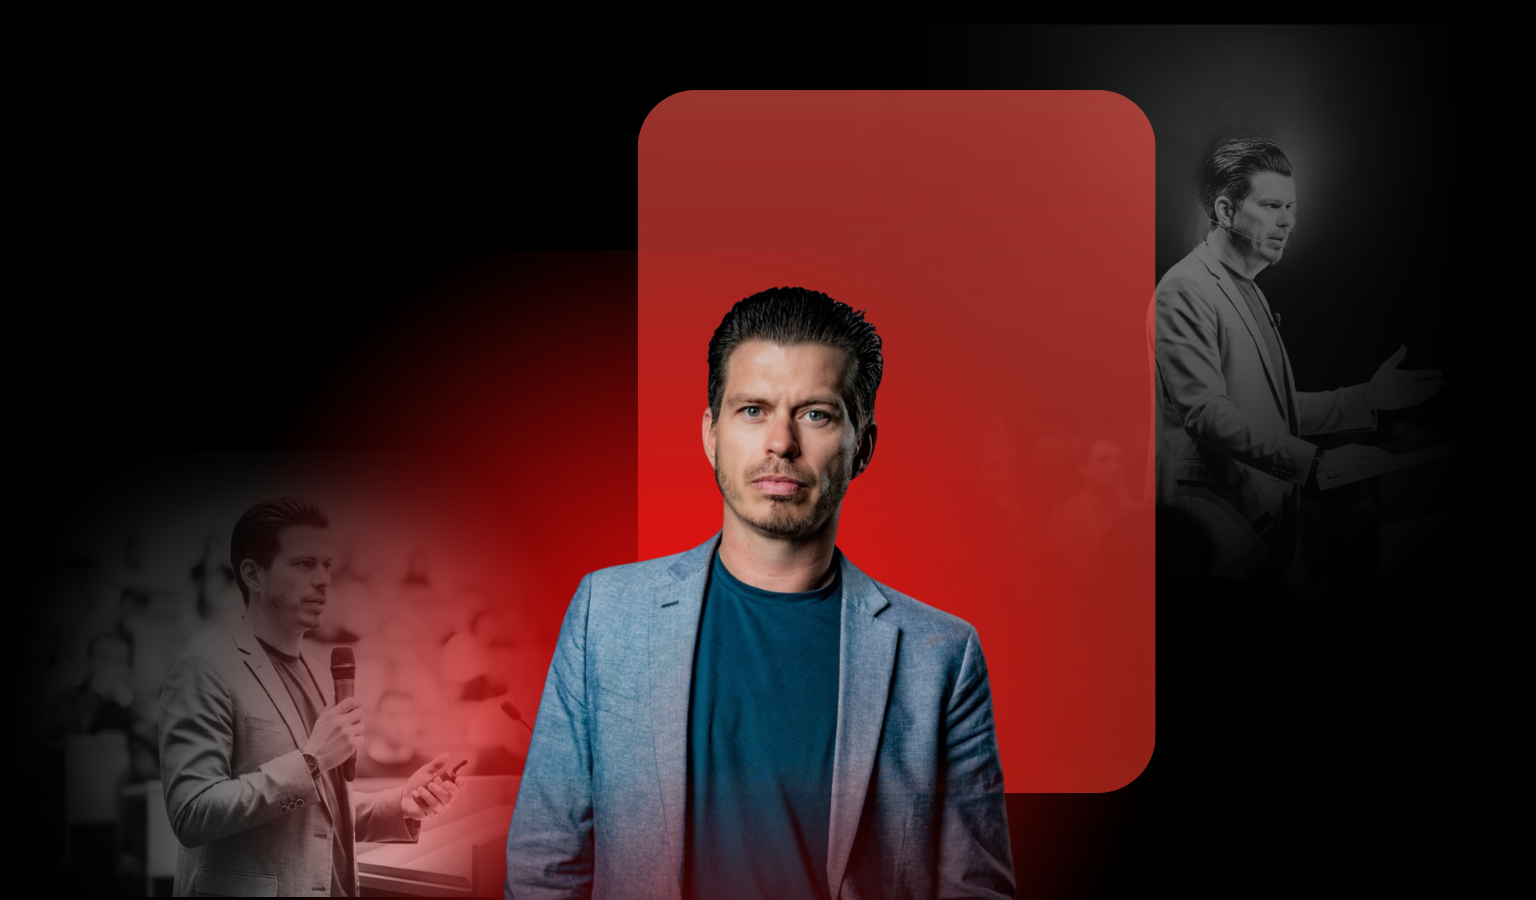
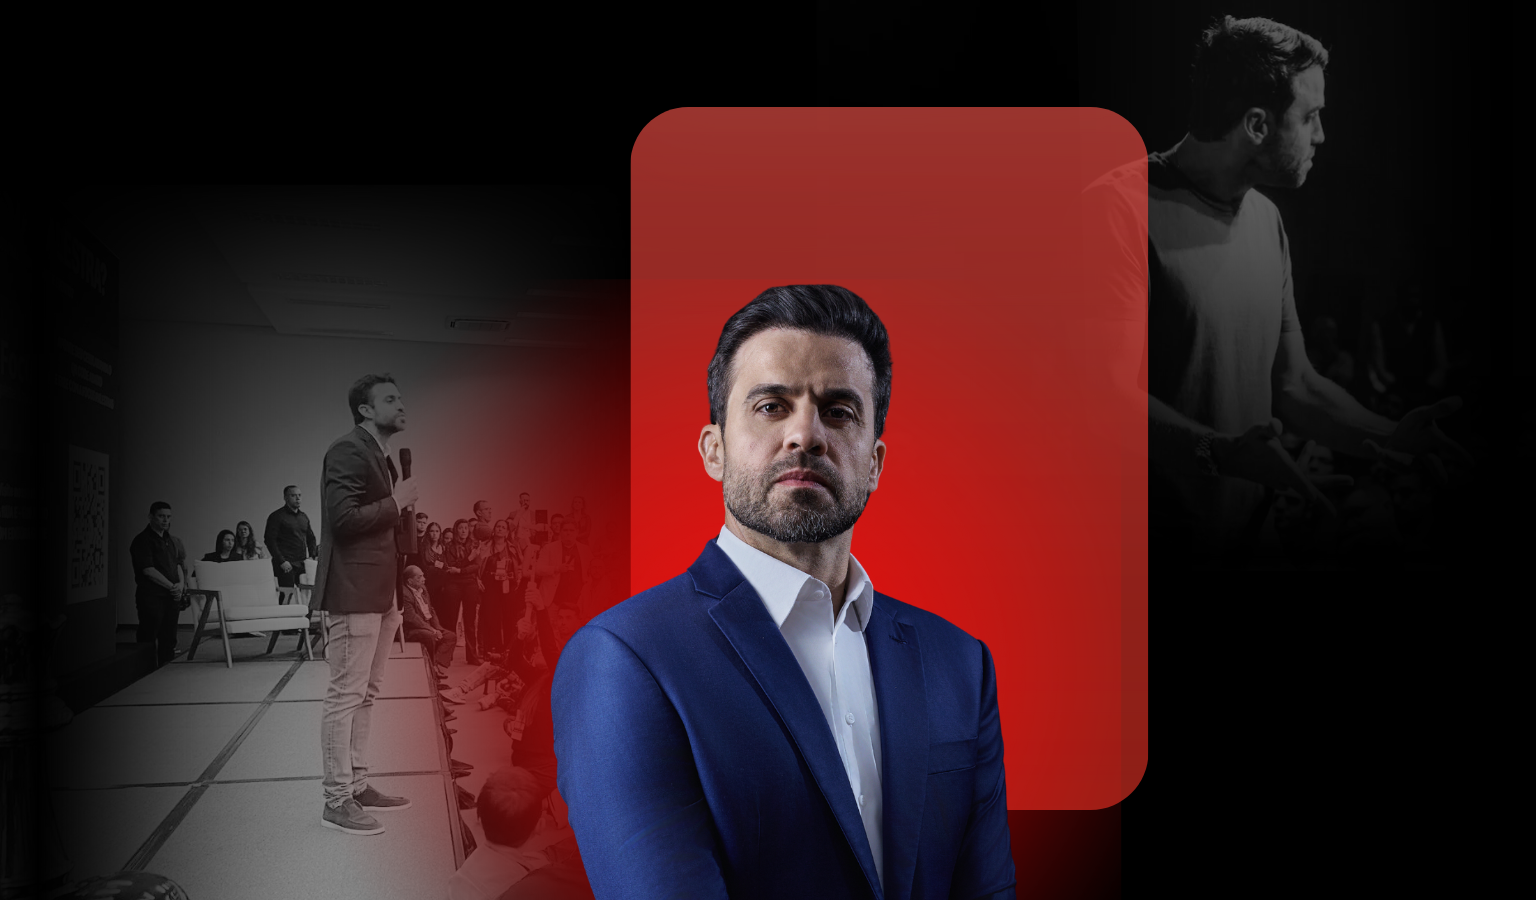
add nesio, delet tiago

diff --git a/src/components/MentorSection.tsx b/src/components/MentorSection.tsx
@@ -23,7 +23,7 @@ export const MentorSection = () => {
       img: santiago,
       bio: [
         "Médico, empresário e palestrante internacional, Santiago Vecina é especialista em nutrologia esportiva e otimização da saúde.",
-        "Ele já transformou a vida de atletas e profissionais de alta performance, levando equipes como o Esporte Clube São Bento e os Vipers ao topo de competições nacionais. Triatleta e criador do método SAAMS, que combina estratégias de saúde, nutrição e propósito.",
+        "Ele já transformou a vida de atletas e profissionais de alta performance, levando equipes como o Esporte Clube São Bento e os Vipers ao topo de competições nacionais. Triatleta e creator do método SAAMS, que combina estratégias de saúde, nutrição e propósito.",
         "Santiago ajuda pessoas a perder até 20 kg em dois meses e a conquistar feitos como completar o Ironman. Autor do livro Médico do Corpo e da Alma, ele inspira uma nova forma de viver: com energia, foco e resultados extraordinários.",
       ],
     },
@@ -33,93 +33,98 @@ export const MentorSection = () => {
       img: nesio,
       bio: [
         "Possui hoje 24 empresas em diversos segmentos e já treinou mais de 20 mil pessoas em seus cursos, mentorias e eventos.",
-        "É um empreendedor serial com foco no crescimento exponencial e especialista em GSR (Gestão Simplificada de Resultados). Essa é uma nova forma de gerir empresas sem se prender a burocracias e processos lentos, um modelo moderno que funciona e gera resultados exponenciais nos negócios.",
-        "Nezio é cristão, casado com Jessyca Monteiro e pai de Ana Liz. Palestrante, Ironman e escritor, tem como propósito destravar negócios e empresários que possuem valores e princípios alinhados aos seus.",
+        "É um empreendedor serial com foco no crescimento exponencial e especialista em GSR (Gestão Simplificada de Resultados). Essa é uma nova forma de gerir empresas sem se prender a burocracias.",
+        "Nezio é cristão, casado com Jessyca Monteiro e pai de Ana Liz. Palestrante, Ironman e escritor, tem como propósito destravar negócios e empresários com valores alinhados aos seus.",
       ],
     },
   ];
 
   return (
-    <section className="py-16 sm:py-24 bg-[#0a0a0a] relative overflow-hidden">
-  {/* Grid background pattern */}
-  <div
-    className="absolute inset-0"
-    style={{
-      backgroundImage: `
-        linear-gradient(rgba(255,255,255,0.03) 1px, transparent 1px),
-        linear-gradient(90deg, rgba(255,255,255,0.03) 1px, transparent 1px)
-      `,
-      backgroundSize: "80px 80px",
-    }}
-  />
+    <section className="py-10  bg-[#0a0a0a] relative overflow-hidden">
+      
+      {/* Grid background pattern */}
+      <div
+        className="absolute inset-0"
+        style={{
+          backgroundImage: `
+            linear-gradient(rgba(255,255,255,0.03) 1px, transparent 1px),
+            linear-gradient(90deg, rgba(255,255,255,0.03) 1px, transparent 1px)
+          `,
+          backgroundSize: "80px 80px",
+        }}
+      />
 
-  <div className="container mx-auto relative z-10">
-    <div className="text-center max-w-3xl mx-auto mb-20 px-4">
-      <h2 className="text-4xl md:text-5xl font-bold mb-6 text-white">
-        Conheça os <span className="text-primary">Mentores</span>
-      </h2>
-      <p className="text-lg text-gray-400">
-        Especialistas dedicados à transformação de vidas
-      </p>
-    </div>
+      <div className="container mx-auto relative z-10">
+        <div className="text-center max-w-3xl mx-auto mb-20 ">
+          <h2 className="text-4xl md:text-5xl font-bold mb-6 text-white">
+            Conheça os <span className="text-primary">Mentores</span>
+          </h2>
+          <p className="text-lg text-gray-400">
+            Especialistas dedicados à transformação de vidas
+          </p>
+        </div>
 
-    <div className="flex flex-col gap-32">
-      {mentors.map((mentor, index) => (
-        <div
-  key={index}
-  className="relative w-full rounded-3xl overflow-hidden min-h-[650px]"
->
-  {/* DESKTOP: BACKGROUND FULL WIDTH */}
-  <div
-    className="hidden md:block absolute inset-0 bg-cover bg-center"
-    style={{
-      backgroundImage: `url(${mentor.background})`,
-    }}
-  />
+        <div className="flex flex-col gap-16">
+          {mentors.map((mentor, index) => (
+            <div
+              key={index}
+              className="relative w-full rounded-3xl overflow-hidden min-h-[650px]"
+            >
+              
+              {/* DESKTOP: BACKGROUND FULL WIDTH */}
+              <div
+                className="hidden md:block absolute inset-0 bg-cover bg-center"
+                style={{
+                  backgroundImage: `url(${mentor.background})`,
+                }}
+              />
 
-  {/* MOBILE – TABLET: IMAGEM NORMAL ACIMA */}
-  <img
-    src={mentor.img}
-    alt={mentor.name}
-    className="block md:hidden w-full h-auto object-cover"
-  />
+              {/* MOBILE — IMAGEM GRANDE */}
+              <img
+                src={mentor.img}
+                alt={mentor.name}
+                className="
+                  block md:hidden w-full 
+                  h-[420px] sm:h-[500px] 
+                  object-cover object-top
+                "
+              />
 
-  {/* CONTEÚDO */}
-  <div
-    className={`
-      relative z-10 flex 
-      md:justify-end
-      mt-6 md:mt-20 px-6 lg:px-12 py-10 md:py-16 h-full
-      flex-col md:flex-row
-    `}
-  >
-    {/* CARD — FIXO IGUAL PARA TODOS */}
-    <div className="
-      bg-gray-900/10 backdrop-blur-xl p-10 rounded-3xl 
-      max-w-xl shadow-[0_0_40px_rgba(0,0,0,0.6)]
-      w-full md:h-full
-    ">
-      <h3 className="text-3xl sm:text-4xl lg:text-5xl font-bold text-white mb-6">
-        {mentor.name}
-      </h3>
+              {/* CONTEÚDO */}
+              <div
+                className="
+                  relative z-10 flex flex-col
+                  md:flex-row md:justify-end
+                  gap-6
+                  mt-6 md:mt-20 lg:px-12 py-10 md:py-16
+                "
+              >
+                {/* CARD */}
+                <div
+                  className="
+                    bg-gray-900/10 backdrop-blur-xl p-8 rounded-3xl 
+                    shadow-[0_0_40px_rgba(0,0,0,0.6)]
+                    w-full 
+                    md:max-w-xl 
+                    min-h-[380px] sm:min-h-[420px]
+                  "
+                >
+                  <h3 className="text-3xl sm:text-4xl lg:text-5xl font-bold text-white mb-6">
+                    {mentor.name}
+                  </h3>
 
-      <div className="space-y-5 text-gray-300 leading-relaxed text-sm sm:text-base">
-        {mentor.bio.map((paragraph, i) => (
-          <p key={i}>{paragraph}</p>
-        ))}
+                  <div className="space-y-5 text-gray-300 leading-relaxed text-sm sm:text-base">
+                    {mentor.bio.map((paragraph, i) => (
+                      <p key={i}>{paragraph}</p>
+                    ))}
+                  </div>
+                </div>
+              </div>
+
+            </div>
+          ))}
+        </div>
       </div>
-    </div>
-  </div>
-</div>
-      ))}
-    </div>
-  </div>
-</section>
-
-
-
-
-
-
+    </section>
   );
 };

diff --git a/src/components/PricingSection.tsx b/src/components/PricingSection.tsx
@@ -10,14 +10,14 @@ const includes = [
 
 export const PricingSection = () => {
   return (
-    <section className="py-10 bg-cover bg-center bg-fixed relative overflow-hidden" style={{backgroundImage: `url(${imgback})`}}>
+    <section className="py-5 bg-cover bg-center bg-fixed relative overflow-hidden" style={{backgroundImage: `url(${imgback})`}}>
       {/* Background decoration */}
       <div className="absolute top-0 right-0 w-1/3 h-full bg-gradient-to-l from-primary/5 to-transparent pointer-events-none" />
 
       <div className="container mx-auto px-4 sm:px-6 relative z-10">
         {/* Header */}
-        <div className="text-center max-w-3xl mx-auto mb-12 sm:mb-16 px-2">
-          <h2 className="text-3xl sm:text-4xl lg:text-5xl font-bold mb-4 sm:mb-6 leading-tight">
+        <div className="text-center max-w-3xl mx-auto mb-6 px-2">
+          <h2 className="text-3xl sm:text-4xl lg:text-5xl font-bold sm:mb-6 leading-tight">
             Investimento na Sua <span className="text-primary">Transformação</span>
           </h2>
           <p className="text-base sm:text-lg text-muted-foreground">
@@ -26,7 +26,7 @@ export const PricingSection = () => {
         </div>
 
         {/* Card */}
-        <div className="max-w-5xl pb-8 mx-auto">
+        <div className="max-w-5xl pb-0 mx-auto">
           <Card className="p-6 sm:p-8 lg:p-12 bg-card/45 border-2 border-primary/50 relative overflow-hidden backdrop-blur-md">
             <div className="grid grid-cols-1 lg:grid-cols-2 gap-8 lg:gap-12">
               {/* Pricing Info */}

diff --git a/src/components/ChoiceSection.tsx b/src/components/ChoiceSection.tsx
@@ -6,7 +6,7 @@ export const ChoiceSection = () => {
     <section className="py-2 px-4 bg-gradient-to-b from-background to-muted/20">
       <div className="container mx-auto max-w-6xl">
         {/* Título */}
-        <div className="text-center mb-12 sm:mb-16">
+        <div className="text-center mb-8 sm:mb-16">
           <h2 className="text-3xl sm:text-4xl md:text-5xl lg:text-6xl font-bold mb-4 sm:mb-6 text-foreground leading-snug">
             Escolha agora!
           </h2>
@@ -44,7 +44,7 @@ export const ChoiceSection = () => {
             </div>
 
             {/* Texto */}
-            <div className="mt-8 text-center">
+            <div className="mt-3 text-center">
               <p className="text-base sm:text-lg md:text-xl leading-relaxed font-semibold text-foreground">
                 Ativar de vez a sua verdadeira identidade e propósito em Lisboa.
               </p>
@@ -58,7 +58,7 @@ export const ChoiceSection = () => {
           <Button
             variant="hero"
             size="lg"
-            className="w-full sm:w-auto text-sm sm:text-lg px-10 sm:px-12 py-5 sm:py-6 h-auto animate-glow"
+            className="w-full sm:w-auto text-sm sm:text-lg mb-10 px-10 sm:px-12 py-5 sm:py-6 h-auto animate-glow"
           >
             QUERO ENTRAR NO MÉTODO IP
           </Button>

diff --git a/src/components/FAQSection.tsx b/src/components/FAQSection.tsx
@@ -55,11 +55,11 @@ const faqs = [
 
 export const FAQSection = () => {
   return (
-    <section className=" sm:py-10 md:py-24 sm:px-4 bg-background">
+    <section className=" py-6 sm:py-10 md:py-24 sm:px-4 bg-background">
       <div className="container mx-auto max-w-4xl">
         {/* Cabeçalho */}
-        <div className="text-center mb-10 sm:mb-12">
-          <h2 className="text-3xl sm:text-4xl md:text-5xl font-bold mb-3 sm:mb-4 text-foreground leading-snug">
+        <div className="text-center mb-6 sm:mb-12">
+          <h2 className="text-3xl sm:text-4xl md:text-5xl font-bold sm:mb-4 text-foreground leading-snug">
             Perguntas Frequentes
           </h2>
           <p className="text-base sm:text-lg md:text-xl text-muted-foreground">
